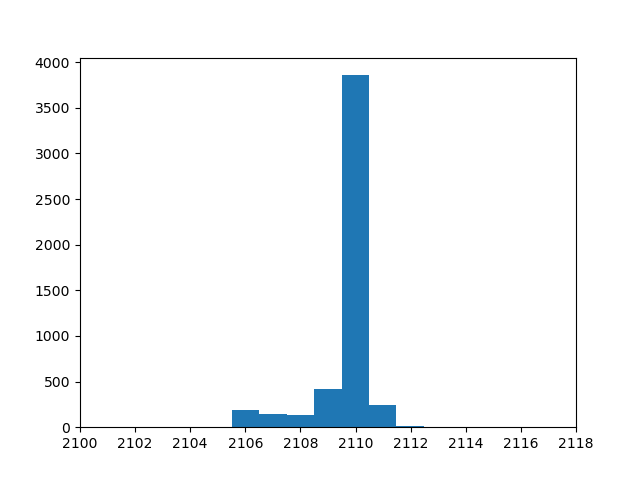
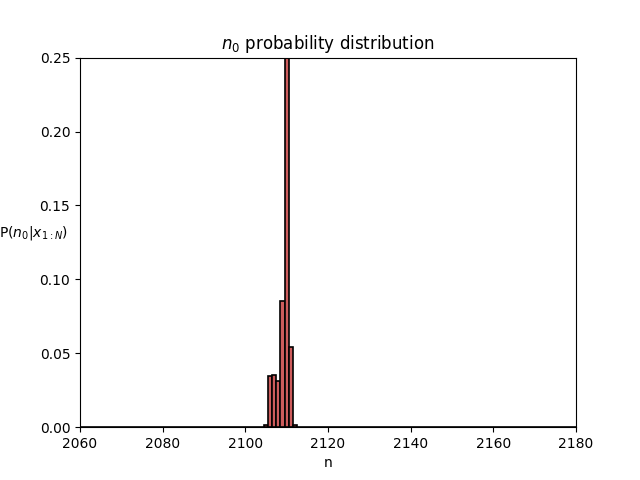
Some fine tuning and record plot

diff --git a/Final2V2.py b/Final2V2.py
@@ -94,7 +94,7 @@ def lambdacalc(data, n0, a, b, is1):
 # initialize the number of iterations
 iterations = 5000
 n0_init = 5 # initial value of n0 we decide for when it starts the montecarlo stuff
-gamma_init = [4, 1] # initial alpha and beta value of the gamma distribution suggested by Kuti
+gamma_init = [8, 1] # initial alpha and beta value of the gamma distribution suggested by Kuti
 
 
 
@@ -102,7 +102,27 @@ gamma_init = [4, 1] # initial alpha and beta value of the gamma distribution sug
 file = open("processedData.txt", "r")
 gravData = file.read().split('\n')
 gravData = np.array(list(map(int, gravData)))
+#file = open("GravitationalWaveDetectionRecord_teamA.txt", "r")
 #print(n0calc(gravData, 10, 18))
+
+# iterate from i = 2017 to i = 2200
+values = range(184)
+with open('years.txt', 'w') as f:
+    for i in values:
+        #print(2017+i)
+        f.write(str(2017+i))
+        if 2017+i == 2200:
+            break
+        f.write('\n')
+yearsfile = open("years.txt", "r")
+years = yearsfile.read().split('\n')
+years = np.array(list(map(int, years)))
+plt.scatter(years, gravData, s=30, facecolors='none', edgecolors='b', marker = "o")
+plt.title('Gravitational Wave Detection Record')
+plt.xlabel('Year')
+plt.ylabel('recorded gravitational wave events')
+#plt.show()
+plt.savefig("problem0.png")
 
 # we then call the montecarlo function
 n0, lambda1, lambda2 = montecarlogibbssampling(gravData, iterations, gamma_init, n0_init)
@@ -112,16 +132,25 @@ n0, lambda1, lambda2 = montecarlogibbssampling(gravData, iterations, gamma_init,
 # the main algorithm is done
 
 # plotting n0 
-plt.hist(2017+n0, range=(2017, 2200), bins=184)
-plt.xlim([2100, 2118])
+plt.hist(2017+n0, range=(2017, 2200), density = True, bins=184, edgecolor='black', linewidth=1.2, color='indianred')
+plt.xlim([2060, 2180])
+plt.ylim([0, 0.25])
+plt.title('$n_0$ probability distribution')
+plt.xlabel('n')
+plt.ylabel('P($n_0|x_{1:N}$)',rotation=0)
+#plt.show()
 plt.savefig("problemc1.png")
 
 # plotting l1 and l2
-plt.scatter(lambda1, lambda2, s=1, c='#d62728', marker=".", cmap=None, norm='linear', vmin=None, vmax=None, alpha=None, linewidths=0.1)
+plt.scatter(lambda1, lambda2, s=1, c='indianred', marker=".")
 plt.xlim([10.35, 10.68])
-plt.ylim([17.4, 18.5])
+plt.ylim([17.4, 18.4])
+plt.title('$\lambda_1$, $\lambda_2$ from Gibbs sampling')
+plt.xlabel('$\lambda_1$')
+plt.ylabel('$\lambda_2$',rotation=0)
+#plt.show()
 plt.savefig("problemc2.png")
-plt.close()
+#plt.close()
 
 # calculating mean
 n0_mean = np.mean(n0)
